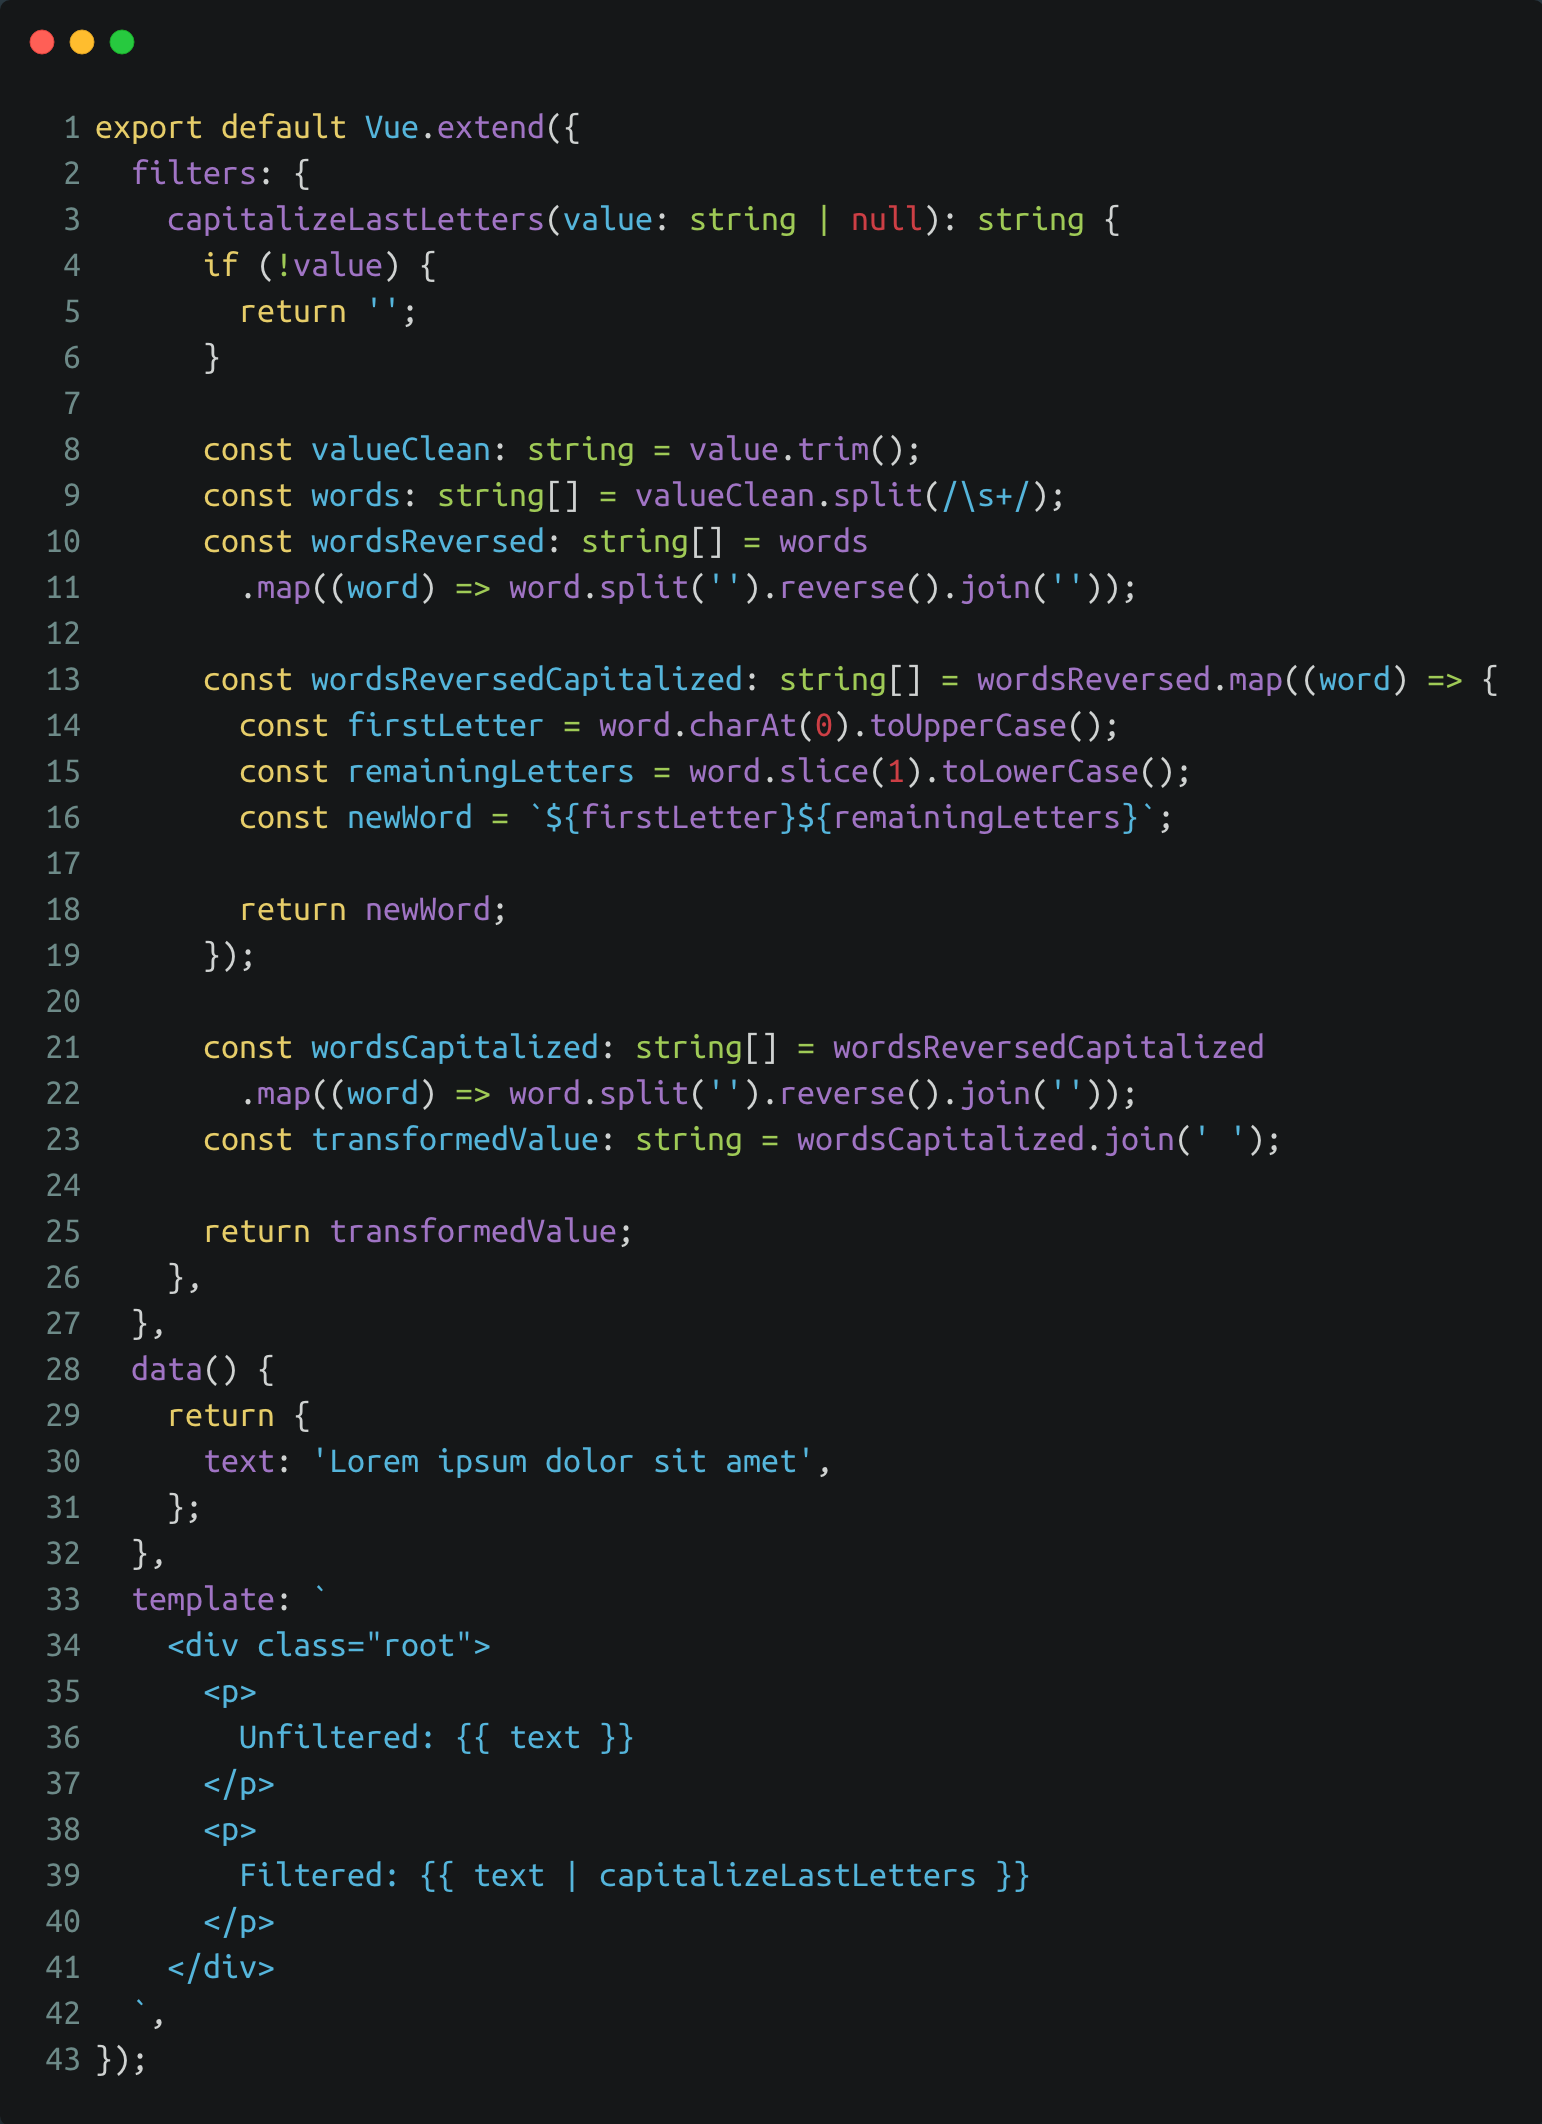
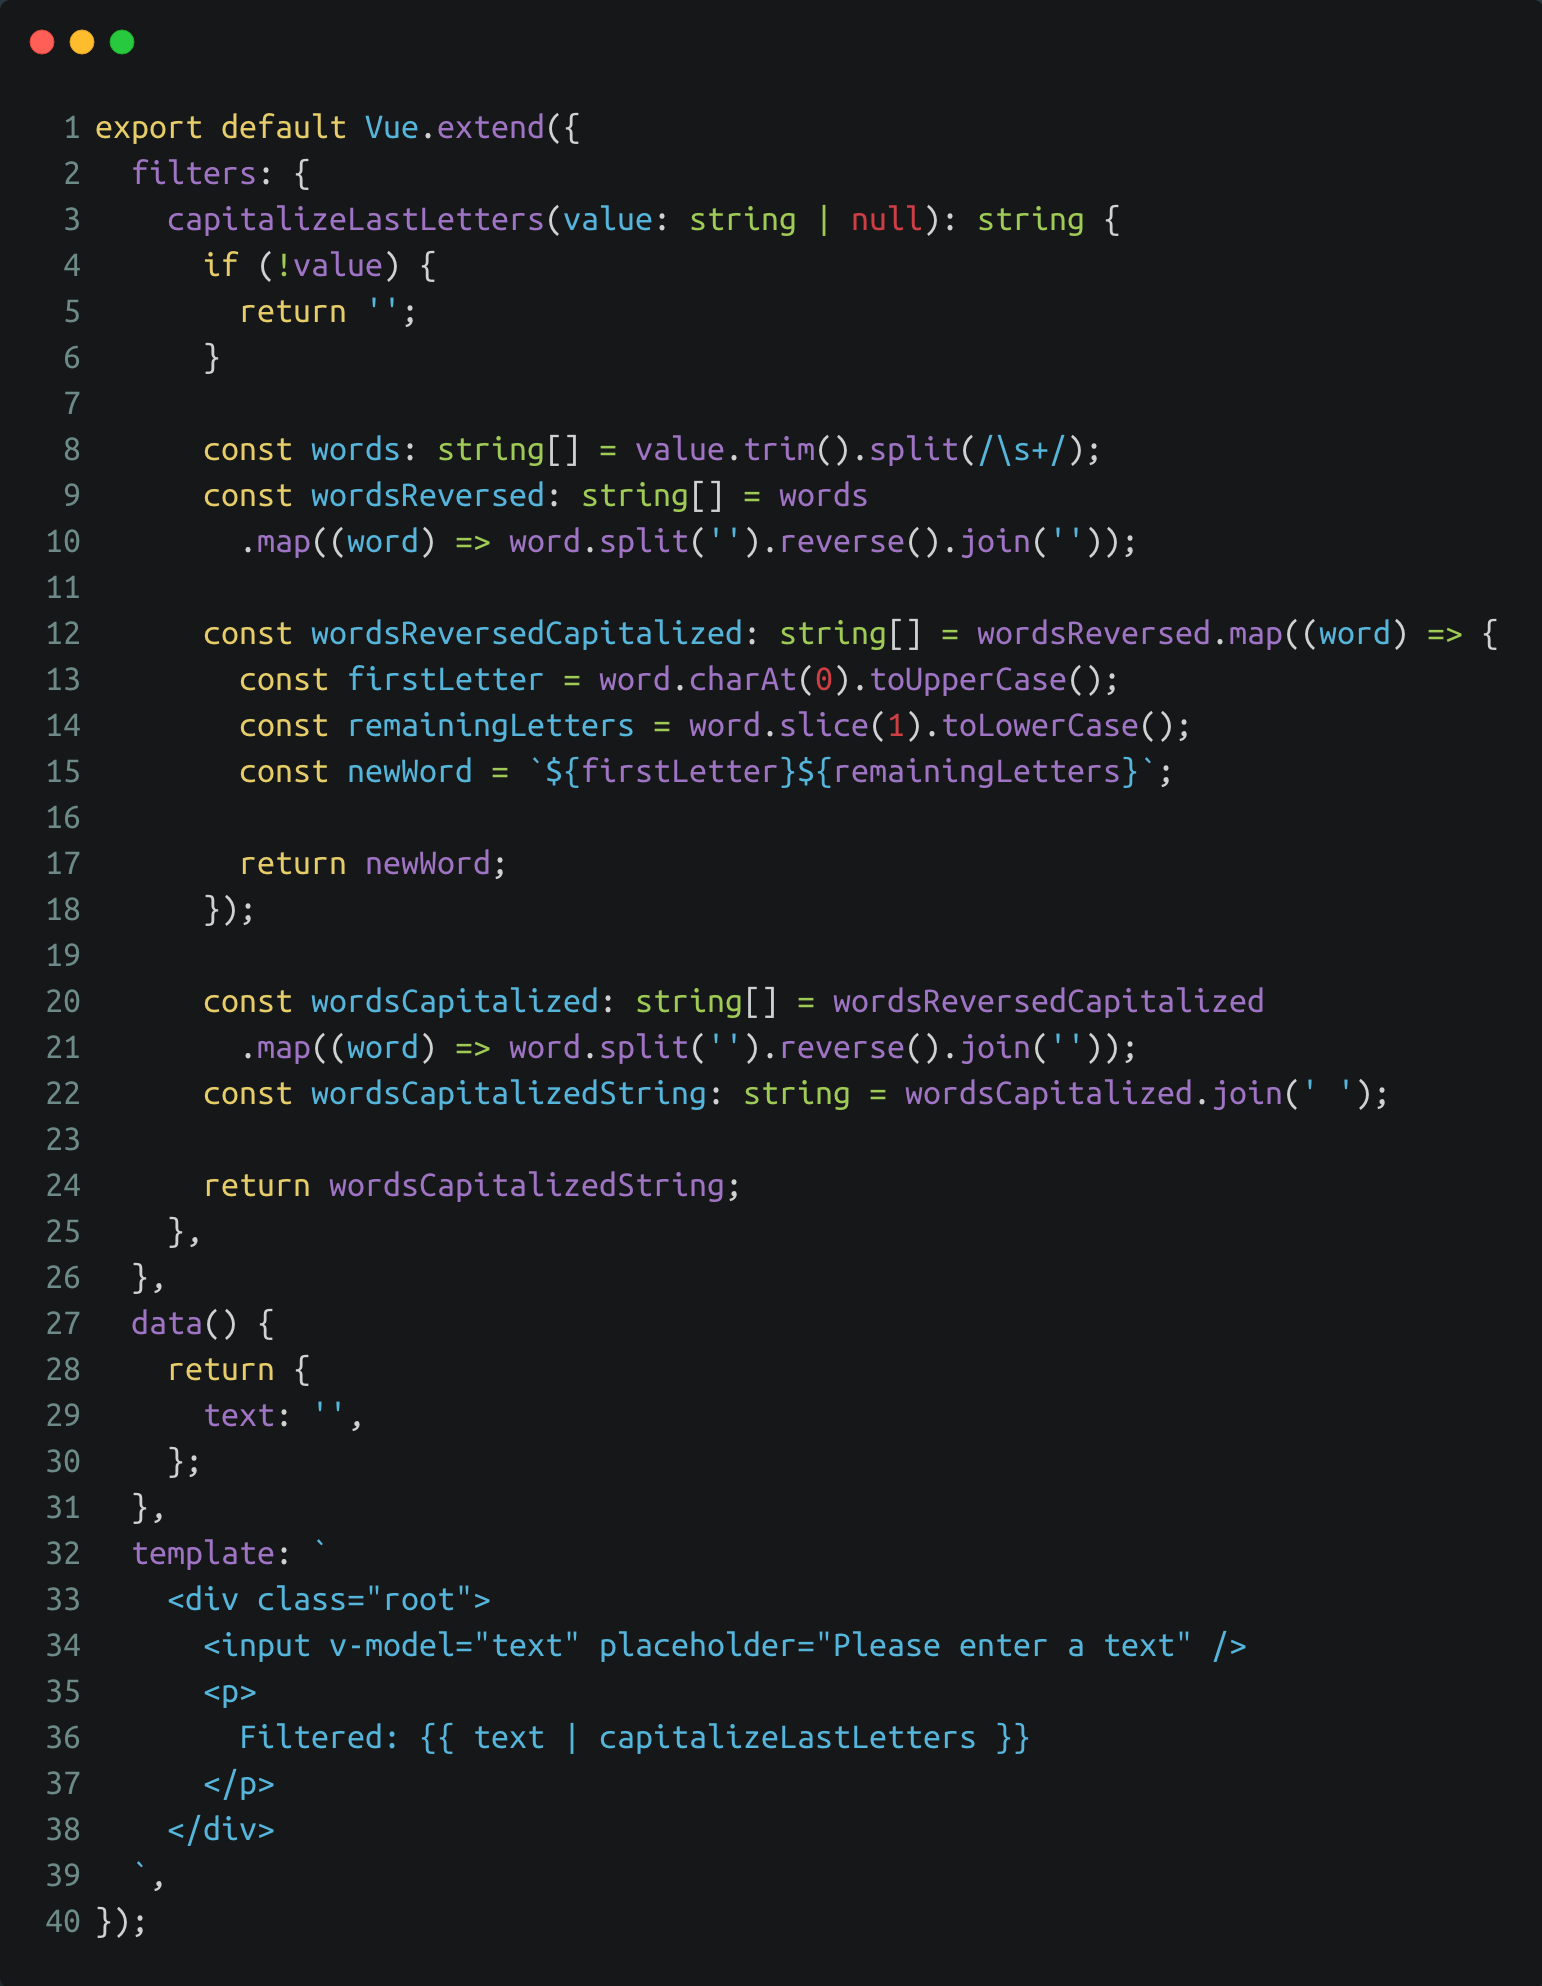
Improved filter example

diff --git a/code/examples/vue2-filter-1/component.js b/code/examples/vue2-filter-1/component.js
@@ -5,8 +5,7 @@ export default Vue.extend({
             if (!value) {
                 return '';
             }
-            const valueClean = value.trim();
-            const words = valueClean.split(/\s+/);
+            const words = value.trim().split(/\s+/);
             const wordsReversed = words
                 .map((word) => word.split('').reverse().join(''));
             const wordsReversedCapitalized = wordsReversed.map((word) => {
@@ -17,20 +16,18 @@ export default Vue.extend({
             });
             const wordsCapitalized = wordsReversedCapitalized
                 .map((word) => word.split('').reverse().join(''));
-            const transformedValue = wordsCapitalized.join(' ');
-            return transformedValue;
+            const wordsCapitalizedString = wordsCapitalized.join(' ');
+            return wordsCapitalizedString;
         },
     },
     data() {
         return {
-            text: 'Lorem ipsum dolor sit amet',
+            text: '',
         };
     },
     template: `
     <div class="root">
-      <p>
-        Unfiltered: {{ text }}
-      </p>
+      <input v-model="text" placeholder="Please enter a text" />
       <p>
         Filtered: {{ text | capitalizeLastLetters }}
       </p>

diff --git a/code/examples/vue2-filter-1/component.ts b/code/examples/vue2-filter-1/component.ts
@@ -7,8 +7,7 @@ export default Vue.extend({
         return '';
       }
 
-      const valueClean: string = value.trim();
-      const words: string[] = valueClean.split(/\s+/);
+      const words: string[] = value.trim().split(/\s+/);
       const wordsReversed: string[] = words
         .map((word) => word.split('').reverse().join(''));
 
@@ -22,21 +21,19 @@ export default Vue.extend({
 
       const wordsCapitalized: string[] = wordsReversedCapitalized
         .map((word) => word.split('').reverse().join(''));
-      const transformedValue: string = wordsCapitalized.join(' ');
+      const wordsCapitalizedString: string = wordsCapitalized.join(' ');
 
-      return transformedValue;
+      return wordsCapitalizedString;
     },
   },
   data() {
     return {
-      text: 'Lorem ipsum dolor sit amet',
+      text: '',
     };
   },
   template: `
     <div class="root">
-      <p>
-        Unfiltered: {{ text }}
-      </p>
+      <input v-model="text" placeholder="Please enter a text" />
       <p>
         Filtered: {{ text | capitalizeLastLetters }}
       </p>
